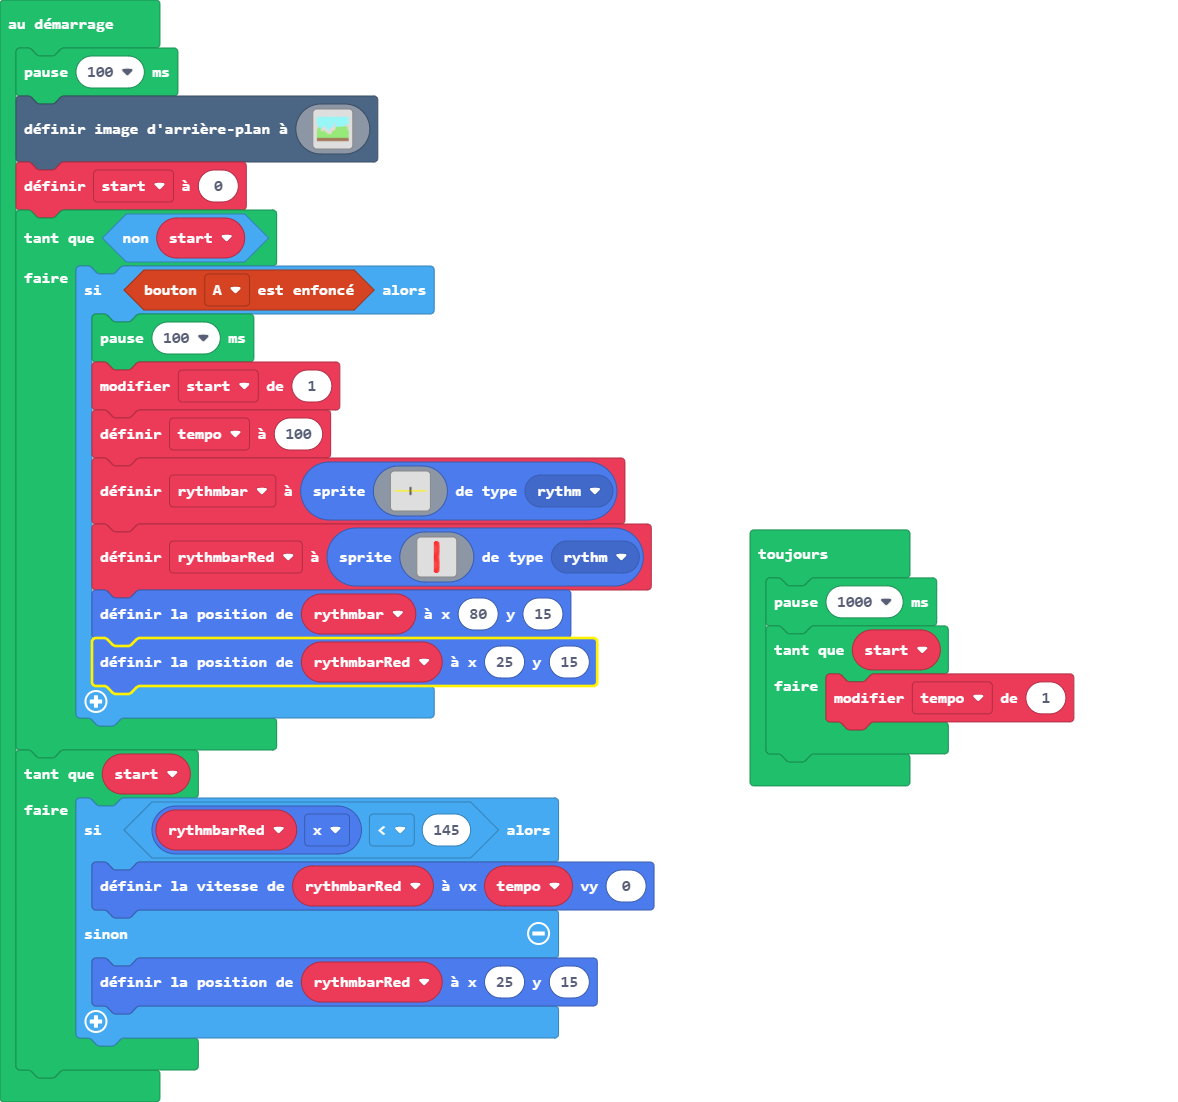
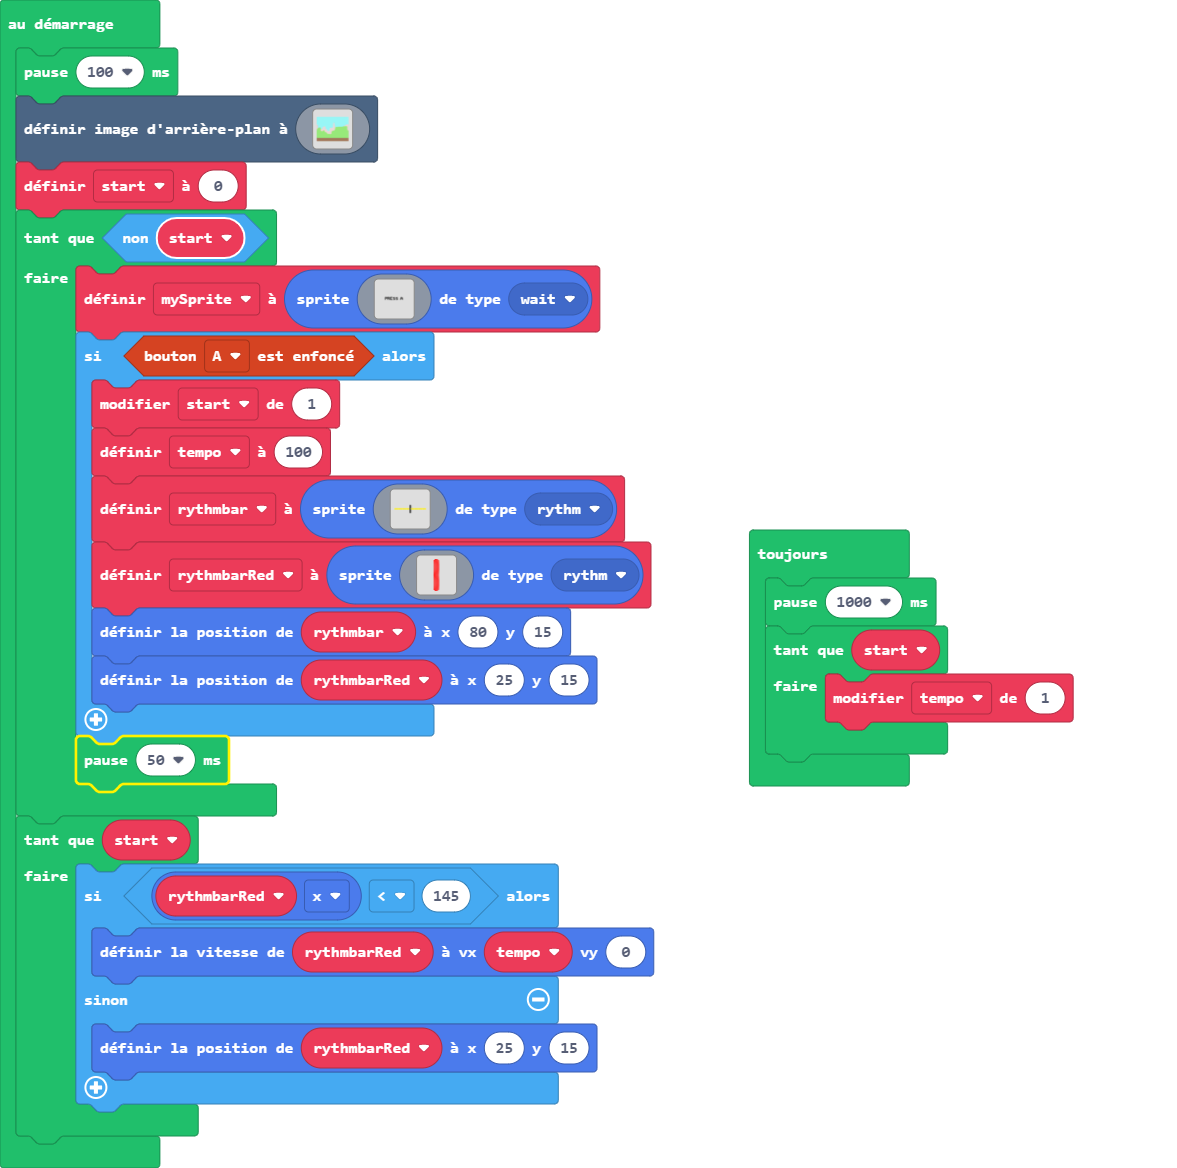
Mise à jour main.blocks, main.ts, images.g.jres, images.g.ts

Changed region(s): [[0.0, 0.0, 0.5506, 0.9564], [0.6117, 0.4319, 0.9176, 0.7405]]

diff --git a/images.g.ts b/images.g.ts
@@ -248,6 +248,25 @@ eeeeeeeeeeeeeeeeeeeeeeeeeeeeeeeeeeeeeeeeeeeeeeeeeeeeeeeeeeeeeeeeeeeeeeeeeeeeeeee
 2 2 2 2 2 
 . 2 2 2 . 
 `;
+            case "image5":
+            case "pressA":return img`
+.......................................fffffffff....ffffffffff......ffffffffffff.................................................fffff..............................................
+.......................................fffffffffff..ffffffffffff....ffffffffffff......fffffffff.......ffffffff...................fffff..............................................
+.......................................fffffffffff..ffffffffffff....ffffffffffff.....ffffffffff......fffffffff.................fffffffff............................................
+.......................................fff.....ffff.fff......ffff...fff..............ffffffffff......fffffffff................ffff...ffff...........................................
+.......................................fff......fff.fff.......fff...fff.............ffff............ffff......................ffff...ffff...........................................
+.......................................fff.....ffff.fff......ffff...fff.............fff.............fff.......................fff.....fff...........................................
+.......................................fffffffffff..ffffffffffff....fff.............ffff............ffff......................fff.....fff...........................................
+.......................................fffffffffff..ffffffffffff....ffffffff.........ffffffff........fffffff.................ffff.....ffff..........................................
+.......................................ffffffffff...fffffffffff.....ffffffff.........ffffffffff......fffffffff...............fffffffffffff..........................................
+.......................................fff..........fff.....fff.....ffffffff...........ffffffff........fffffff...............fffffffffffff..........................................
+.......................................fff..........fff.....ffff....fff.....................ffff...........ffff.............fffffffffffffff.........................................
+.......................................fff..........fff.....ffff....fff......................fff............fff.............ffff.......ffff.........................................
+.......................................fff..........fff......fff....fff.....................ffff...........ffff.............fff.........fff.........................................
+.......................................fff..........fff......ffff...ffffffffffff.....ffffffffff......fffffffff..............fff.........fff.........................................
+.......................................fff..........fff......ffff...ffffffffffff.....ffffffffff......fffffffff..............fff.........fff.........................................
+.......................................fff..........fff.......fff...ffffffffffff.....ffffffff........fffffff................fff.........fff.........................................
+`;
         }
         return null;
     })

diff --git a/main.ts b/main.ts
@@ -1,9 +1,11 @@
 namespace SpriteKind {
     export const rythm = SpriteKind.create()
+    export const wait = SpriteKind.create()
 }
 let rythmbarRed: Sprite = null
 let rythmbar: Sprite = null
 let tempo = 0
+let mySprite: Sprite = null
 pause(100)
 scene.setBackgroundImage(img`
     9999999999999999999999999999999999999999999999999999999999999999999999999999999999999999999999999999999999999999999999999999999999999999999999999999999999999999
@@ -129,8 +131,8 @@ scene.setBackgroundImage(img`
     `)
 let start = 0
 while (!(start)) {
+    mySprite = sprites.create(assets.image`pressA`, SpriteKind.wait)
     if (controller.A.isPressed()) {
-        pause(100)
         start += 1
         tempo = 100
         rythmbar = sprites.create(assets.image`ref_bar`, SpriteKind.rythm)
@@ -138,6 +140,7 @@ while (!(start)) {
         rythmbar.setPosition(80, 15)
         rythmbarRed.setPosition(25, 15)
     }
+    pause(50)
 }
 while (start) {
     if (rythmbarRed.x < 145) {
